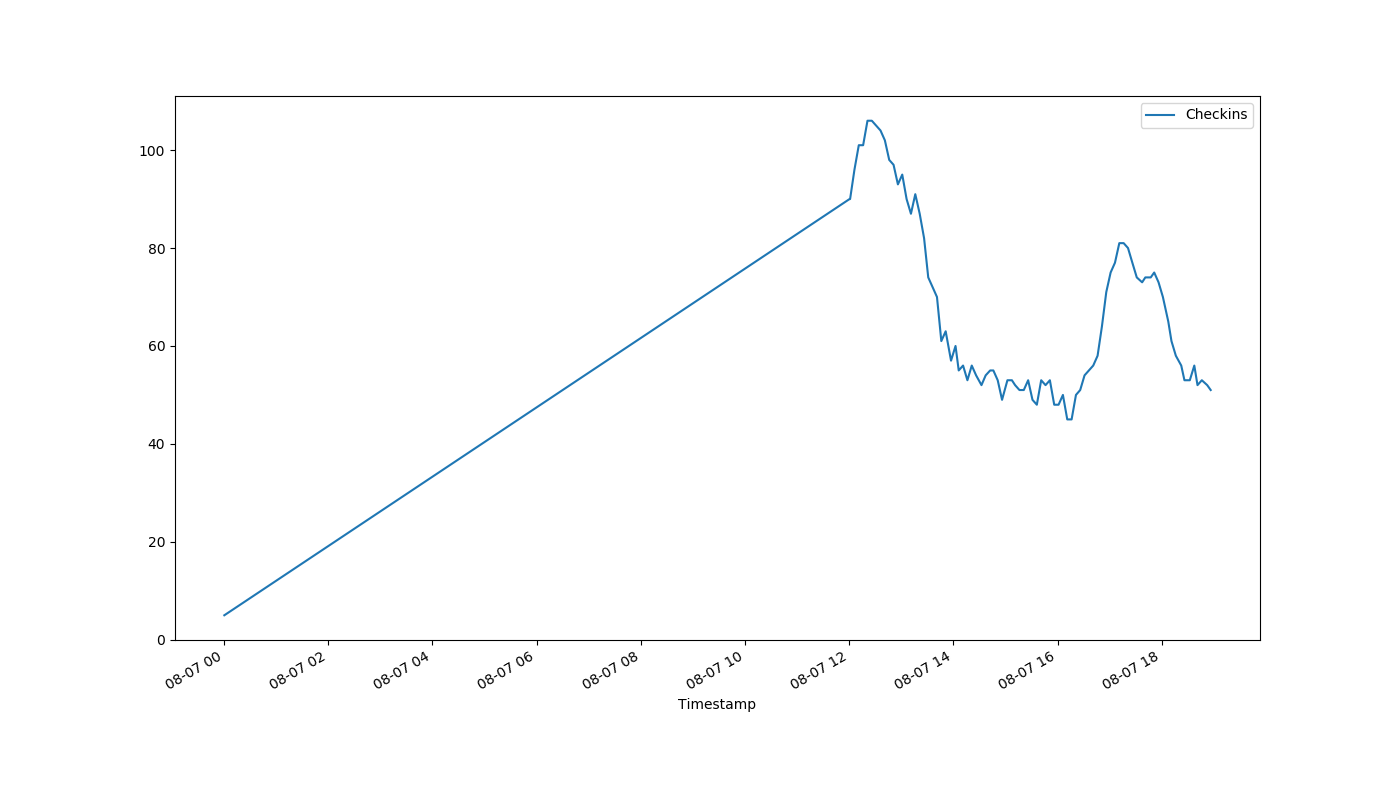
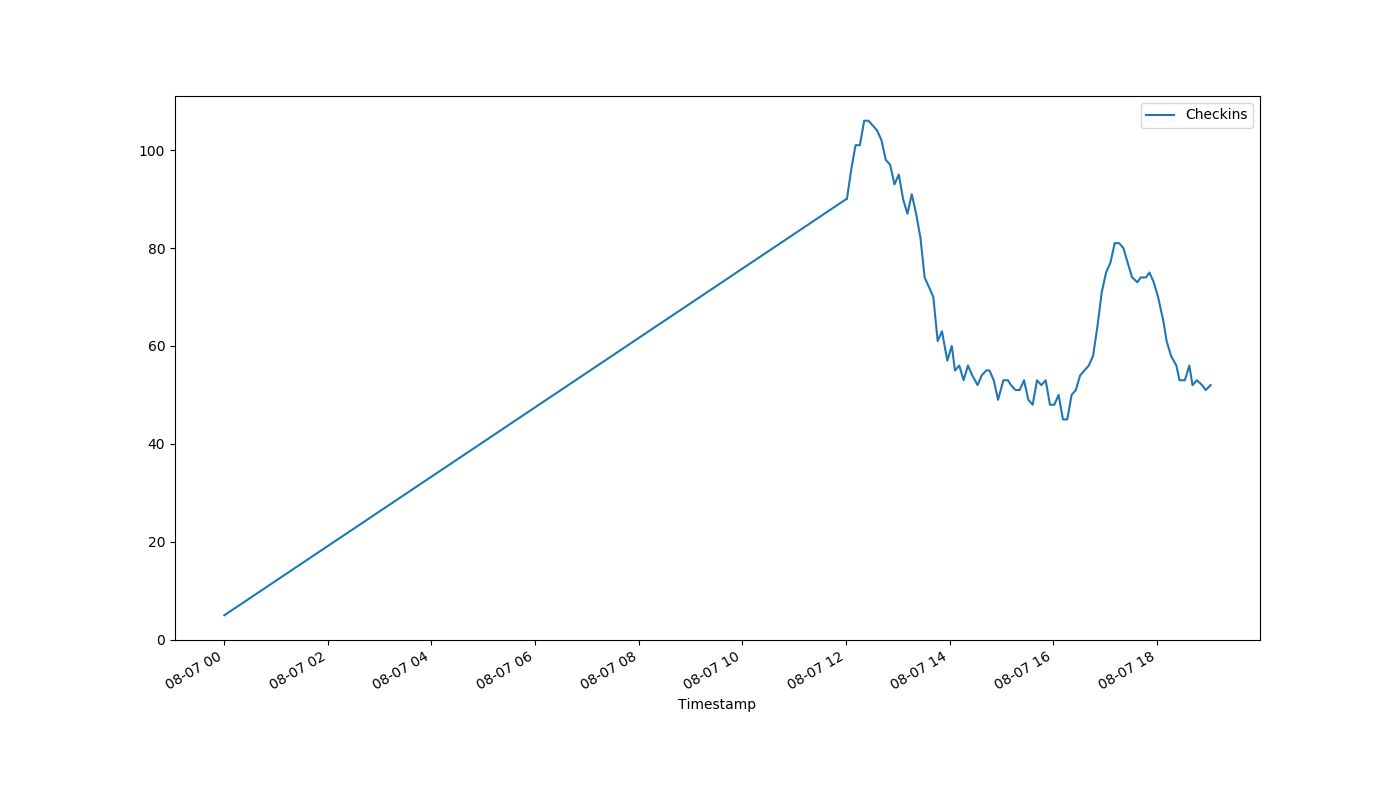
auto-Aug-07-19:03:53

diff --git a/index.html b/index.html
@@ -1,1 +1,1 @@
-<!DOCTYPE html><html><head><meta http-equiv="refresh" content="30"><link rel='stylesheet' href='holmcurrent.css'></head><body><p id='count'>51</p><div id='graph-wrap'><img id='graph' src='holmgraph-Aug-07.png'></div><p id='updated'>Last updated 18:57:06 / 18:56:19</p></body></html>
+<!DOCTYPE html><html><head><meta http-equiv="refresh" content="30"><link rel='stylesheet' href='holmcurrent.css'></head><body><p id='count'>52</p><div id='graph-wrap'><img id='graph' src='holmgraph-Aug-07.png'></div><p id='updated'>Last updated 19:03:06 / 19:02:10</p></body></html>
